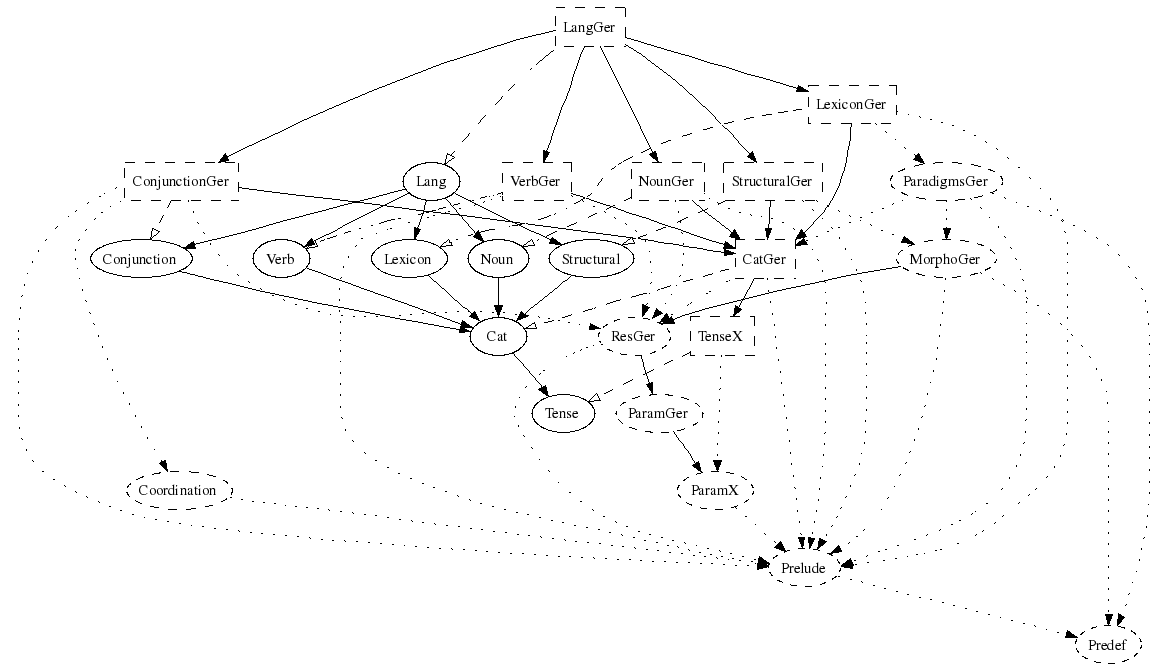
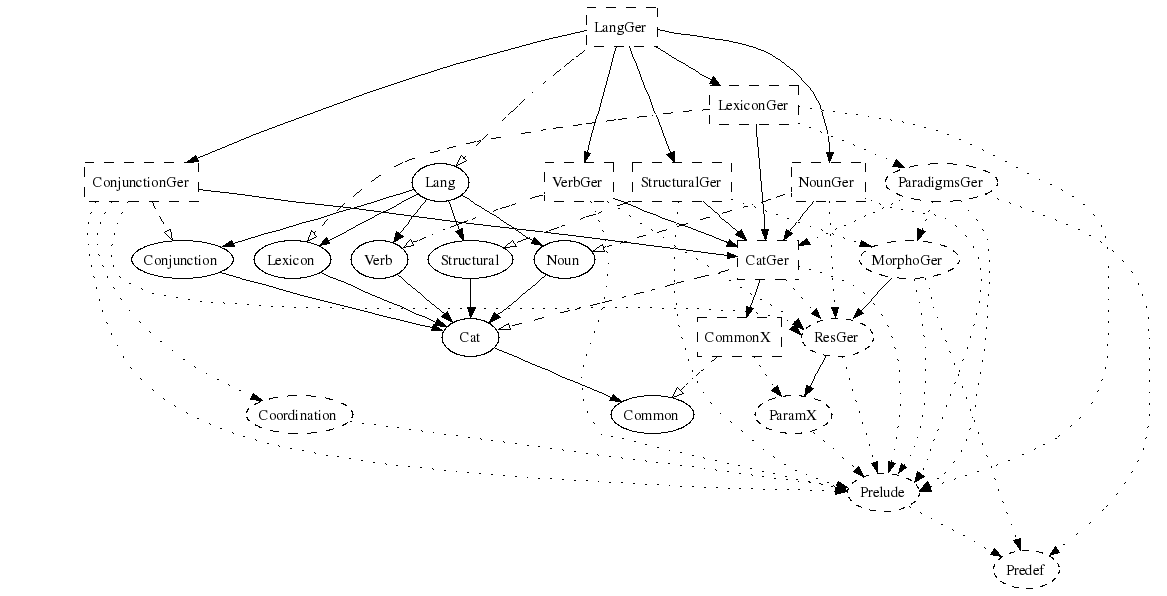
documenting new API structure
darcs-hash:20060221153514-88a34-979c1122436b2c99cd06cd9a57b3b0ab0ac1b889.gz

diff --git a/lib/resource-1.0/doc/Resource-HOWTO.html b/lib/resource-1.0/doc/Resource-HOWTO.html
@@ -7,7 +7,7 @@
 <P ALIGN="center"><CENTER><H1>Resource grammar writing HOWTO</H1>
 <FONT SIZE="4">
 <I>Author: Aarne Ranta &lt;aarne (at) cs.chalmers.se&gt;</I><BR>
-Last update: Tue Feb  7 09:22:12 2006
+Last update: Tue Feb 21 16:34:52 2006
 </FONT></CENTER>
 
 <P></P>
@@ -101,6 +101,8 @@ one of a small number of different types). Thus we have
 <LI><CODE>Relative</CODE>: construction of relative clauses
 <LI><CODE>Conjunction</CODE>: coordination of phrases
 <LI><CODE>Phrase</CODE>: construction of the major units of text and speech
+<LI><CODE>Text</CODE>: construction of texts as sequences of phrases
+<LI><CODE>Idiom</CODE>: idiomatic phrases such as existentials
 </UL>
 
 <A NAME="toc3"></A>
@@ -346,8 +348,8 @@ package.
 </P>
 <UL>
 <LI><CODE>ParamX</CODE>: parameter types used in many languages
-<LI><CODE>TenseX</CODE>: implementation of the logical tense, anteriority, 
-     and polarity parameters
+<LI><CODE>CommonX</CODE>: implementation of the categories $Text$ and $Phr$, as well as of
+     the logical tense, anteriority, and polarity parameters
 <LI><CODE>Coordination</CODE>: operations to deal with lists and coordination
 <LI><CODE>Prelude</CODE>: general-purpose operations on strings, records,
       truth values, etc.
@@ -566,13 +568,13 @@ are only found in the comments of the modules.
 <A NAME="toc15"></A>
 <H3>The category system</H3>
 <UL>
+<LI><A HREF="gfdoc/Common.html">Common</A>, <A HREF="../common/CommonX.gf">CommonX</A>
 <LI><A HREF="gfdoc/Cat.html">Cat</A>, <A HREF="gfdoc/CatGer.gf">CatGer</A>
 </UL>
 
 <A NAME="toc16"></A>
 <H3>Phrase category modules</H3>
 <UL>
-<LI><A HREF="gfdoc/Tense.html">Tense</A>, <A HREF="../german/TenseGer.gf">TenseGer</A>
 <LI><A HREF="gfdoc/Noun.html">Noun</A>, <A HREF="../german/NounGer.gf">NounGer</A>
 <LI><A HREF="gfdoc/Adjective.html">Adjective</A>, <A HREF="../german/AdjectiveGer.gf">AdjectiveGer</A>
 <LI><A HREF="gfdoc/Verb.html">Verb</A>, <A HREF="../german/VerbGer.gf">VerbGer</A>
@@ -583,6 +585,8 @@ are only found in the comments of the modules.
 <LI><A HREF="gfdoc/Relative.html">Relative</A>, <A HREF="../german/RelativeGer.gf">RelativeGer</A>
 <LI><A HREF="gfdoc/Conjunction.html">Conjunction</A>, <A HREF="../german/ConjunctionGer.gf">ConjunctionGer</A>
 <LI><A HREF="gfdoc/Phrase.html">Phrase</A>, <A HREF="../german/PhraseGer.gf">PhraseGer</A>
+<LI><A HREF="gfdoc/Text.html">Text</A>, <A HREF="../common/TextX.gf">TextX</A>
+<LI><A HREF="gfdoc/Idiom.html">Idiom</A>, <A HREF="../german/IdiomGer.gf">IdiomGer</A>
 <LI><A HREF="gfdoc/Lang.html">Lang</A>, <A HREF="../german/LangGer.gf">LangGer</A>
 </UL>
 

diff --git a/lib/resource-1.0/doc/gfdoc/Common.html b/lib/resource-1.0/doc/gfdoc/Common.html
@@ -2,19 +2,19 @@
 <HTML>
 <HEAD>
 <META NAME="generator" CONTENT="http://txt2tags.sf.net">
-<TITLE> Tense, Polarity, and Anteriority</TITLE>
+<TITLE> Infrastructure with common implementations.</TITLE>
 </HEAD><BODY BGCOLOR="white" TEXT="black">
-<P ALIGN="center"><CENTER><H1> Tense, Polarity, and Anteriority</H1>
+<P ALIGN="center"><CENTER><H1> Infrastructure with common implementations.</H1>
 <FONT SIZE="4">
 <I>Author: </I><BR>
-Last update: Tue Feb 21 16:23:54 2006
+Last update: Tue Feb 21 16:23:52 2006
 </FONT></CENTER>
 
 <P></P>
 <HR NOSHADE SIZE=1>
 <P></P>
   <UL>
-  <LI><A HREF="#toc1">Tense, Polarity, and Anteriority</A>
+  <LI><A HREF="#toc1">Infrastructure with common implementations.</A>
   </UL>
 
 <P></P>
@@ -26,19 +26,22 @@ gfdoc - a rudimentary GF document generator.
 (c) Aarne Ranta (<A HREF="mailto:aarne@cs.chalmers.se">aarne@cs.chalmers.se</A>) 2002 under GNU GPL.
 </P>
 <A NAME="toc1"></A>
-<H1>Tense, Polarity, and Anteriority</H1>
+<H1>Infrastructure with common implementations.</H1>
 <P>
 This module defines the abstract parameters of tense, polarity, and
-anteriority, which are used in <A HREF="Tensed.html">Tensed</A> to generate different
+anteriority, which are used in <A HREF="Phrase.html">Phrase</A> to generate different
 forms of sentences. Together they give 2 x 4 x 4 = 16 sentence forms.
 These tenses are defined for all languages in the library. More tenses
 can be defined in the language extensions, e.g. the <I>passé simple</I> of
 Romance languages.
 </P>
 <PRE>
-    abstract Tense = {
+    abstract Common = {
     
       cat
+        Text ;   -- text consisting of several phrases
+        Phr ;    -- phrase in a text                    e.g. "But be quiet my darling."
+    
         Pol ;
         Tense ;
         Ant ;
@@ -53,5 +56,5 @@ Romance languages.
 <P></P>
 
 <!-- html code generated by txt2tags 2.0 (http://txt2tags.sf.net) -->
-<!-- cmdline: txt2tags -thtml -\-toc abstract/Tense.txt -->
+<!-- cmdline: txt2tags -thtml -\-toc abstract/Common.txt -->
 </BODY></HTML>

diff --git a/lib/resource-1.0/doc/index.html b/lib/resource-1.0/doc/index.html
@@ -7,7 +7,7 @@
 <P ALIGN="center"><CENTER><H1>GF Resource Grammar Library v. 1.0</H1>
 <FONT SIZE="4">
 <I>Author: Aarne Ranta &lt;aarne (at) cs.chalmers.se&gt;</I><BR>
-Last update: Tue Feb  7 19:05:12 2006
+Last update: Tue Feb 21 16:23:46 2006
 </FONT></CENTER>
 
 <P></P>
@@ -47,8 +47,8 @@ The following figure gives the dependencies of these modules.
 The documentation of the individual modules:
 </P>
 <UL>
+<LI><A HREF="gfdoc/Common.html">Common</A>: abstract notions with language-indep. implementations
 <LI><A HREF="gfdoc/Cat.html">Cat</A>: the category system
-<LI><A HREF="gfdoc/Tense.html">Tense</A>: tense, anteriority, and polarity values
 <LI><A HREF="gfdoc/Noun.html">Noun</A>: construction of nouns and noun phrases
 <LI><A HREF="gfdoc/Adjective.html">Adjective</A>: construction of adjectival phrases
 <LI><A HREF="gfdoc/Verb.html">Verb</A>: construction of verb phrases
@@ -59,6 +59,8 @@ The documentation of the individual modules:
 <LI><A HREF="gfdoc/Relative.html">Relative</A>: construction of relative clauses
 <LI><A HREF="gfdoc/Conjunction.html">Conjunction</A>: coordination of phrases
 <LI><A HREF="gfdoc/Phrase.html">Phrase</A>: construction of the major units of text and speech
+<LI><A HREF="gfdoc/Text.html">Text</A>: construction of texts from phrases, using punctuation
+<LI><A HREF="gfdoc/Idiom.html">Idiom</A>: idiomatic phrases, such as existentials
 <LI><A HREF="gfdoc/Structural.html">Structural</A>: a lexicon of structural words
 <LI><A HREF="gfdoc/Lexicon.html">Lexicon</A>: a lexicon of other common words, for test purposes
 <LI><A HREF="gfdoc/Lang.html">Lang</A>: the main module comprising all the others

diff --git a/lib/resource-1.0/doc/gfdoc/Cat.html b/lib/resource-1.0/doc/gfdoc/Cat.html
@@ -7,7 +7,7 @@
 <P ALIGN="center"><CENTER><H1> The category system</H1>
 <FONT SIZE="4">
 <I>Author: </I><BR>
-Last update: Tue Feb  7 19:04:49 2006
+Last update: Tue Feb 21 16:23:52 2006
 </FONT></CENTER>
 
 <P></P>
@@ -40,8 +40,11 @@ gfdoc - a rudimentary GF document generator.
 </P>
 <A NAME="toc1"></A>
 <H1>The category system</H1>
+<P>
+Some categories are inherited from <A HREF="Common.html">Common</A>.
+</P>
 <PRE>
-    abstract Cat = Tense ** {
+    abstract Cat = Common ** {
     
       cat
 </PRE>
@@ -49,11 +52,10 @@ gfdoc - a rudimentary GF document generator.
 <A NAME="toc2"></A>
 <H2>Top-level units</H2>
 <P>
-Constructed in <A HREF="Phrase.html">Phrase</A>.
+Constructed in <A HREF="Text.html">Text</A>: <CODE>Text</CODE>.
+Constructed in <A HREF="Phrase.html">Phrase</A>: <CODE>Phr</CODE> and
 </P>
 <PRE>
-        Text ;  -- text consisting of several phrases
-        Phr ;   -- phrase in a text                    e.g. "But be quiet my darling."
         Utt ;   -- sentence, question, word...         e.g. "be quiet"
         Voc ;   -- vocative or "please"                e.g. "my darling"
 </PRE>
@@ -61,7 +63,8 @@ Constructed in <A HREF="Phrase.html">Phrase</A>.
 <A NAME="toc3"></A>
 <H2>Sentences and clauses</H2>
 <P>
-Constructed in <A HREF="Sentence.html">Sentence</A>.
+Constructed in <A HREF="Sentence.html">Sentence</A>, and also in
+<A HREF="Idiom.html">Idiom</A>.
 </P>
 <PRE>
         S ;     -- declarative sentence                e.g. "she lived here"

diff --git a/lib/resource-1.0/doc/gfdoc/Text.html b/lib/resource-1.0/doc/gfdoc/Text.html
@@ -2,58 +2,44 @@
 <HTML>
 <HEAD>
 <META NAME="generator" CONTENT="http://txt2tags.sf.net">
+<TITLE> Texts</TITLE>
 </HEAD><BODY BGCOLOR="white" TEXT="black">
+<P ALIGN="center"><CENTER><H1> Texts</H1>
 <FONT SIZE="4">
+<I>Author: </I><BR>
+Last update: Tue Feb 21 16:23:54 2006
 </FONT></CENTER>
 
 <P></P>
 <HR NOSHADE SIZE=1>
 <P></P>
+  <UL>
+  <LI><A HREF="#toc1">Texts</A>
+  </UL>
+
 <P></P>
 <HR NOSHADE SIZE=1>
 <P></P>
-<P>
-Author: 
-Last update: Tue Feb 21 16:23:56 2006
-</P>
 <P>
 Produced by 
 gfdoc - a rudimentary GF document generator.
 (c) Aarne Ranta (<A HREF="mailto:aarne@cs.chalmers.se">aarne@cs.chalmers.se</A>) 2002 under GNU GPL.
 </P>
-<P>
-==
-</P>
+<A NAME="toc1"></A>
+<H1>Texts</H1>
 <PRE>
-    abstract Multimodal =
-      Noun,
-</PRE>
-<P></P>
-<P>
-Verb, 
-</P>
-<PRE>
-      Adjective,
-      Adverb,
-      Numeral,
-</PRE>
-<P></P>
-<P>
-Sentence, 
-Question,
-Relative,
-Conjunction,
-Phrase,
-Tensed,
-</P>
-<PRE>
-      Structural,
-      Demonstrative,
-      Lexicon
-      ** {} ;
+    abstract Text = Cat ** {
+    
+      fun
+        TEmpty : Text ;
+        TFullStop : Phr -&gt; Text -&gt; Text ;
+        TQuestMark : Phr -&gt; Text -&gt; Text ;
+        TExclMark : Phr -&gt; Text -&gt; Text ;
+    
+    }
 </PRE>
 <P></P>
 
 <!-- html code generated by txt2tags 2.0 (http://txt2tags.sf.net) -->
-<!-- cmdline: txt2tags -thtml -\-toc multimodal/Multimodal.txt -->
+<!-- cmdline: txt2tags -thtml -\-toc abstract/Text.txt -->
 </BODY></HTML>

diff --git a/lib/resource-1.0/doc/gfdoc/Idiom.html b/lib/resource-1.0/doc/gfdoc/Idiom.html
@@ -1,0 +1,52 @@
+<!DOCTYPE HTML PUBLIC "-//W3C//DTD HTML 4.0 Transitional//EN">
+<HTML>
+<HEAD>
+<META NAME="generator" CONTENT="http://txt2tags.sf.net">
+<TITLE> Idiomatic expressions</TITLE>
+</HEAD><BODY BGCOLOR="white" TEXT="black">
+<P ALIGN="center"><CENTER><H1> Idiomatic expressions</H1>
+<FONT SIZE="4">
+<I>Author: </I><BR>
+Last update: Tue Feb 21 16:23:52 2006
+</FONT></CENTER>
+
+<P></P>
+<HR NOSHADE SIZE=1>
+<P></P>
+  <UL>
+  <LI><A HREF="#toc1">Idiomatic expressions</A>
+  </UL>
+
+<P></P>
+<HR NOSHADE SIZE=1>
+<P></P>
+<P>
+Produced by 
+gfdoc - a rudimentary GF document generator.
+(c) Aarne Ranta (<A HREF="mailto:aarne@cs.chalmers.se">aarne@cs.chalmers.se</A>) 2002 under GNU GPL.
+</P>
+<A NAME="toc1"></A>
+<H1>Idiomatic expressions</H1>
+<PRE>
+    abstract Idiom = Cat ** {
+</PRE>
+<P></P>
+<P>
+This module defines constructions that are formed in fixed ways,
+often different even in closely related languages.
+</P>
+<PRE>
+      fun
+        ExistNP   : NP -&gt; Cl ;    -- there is a house
+        ImpersCl  : VP -&gt; Cl ;    -- it rains
+        GenericCl : VP -&gt; Cl ;    -- one sleeps
+    
+        ProgrVP   : VP -&gt; VP ;    -- sleeping
+    
+    }
+</PRE>
+<P></P>
+
+<!-- html code generated by txt2tags 2.0 (http://txt2tags.sf.net) -->
+<!-- cmdline: txt2tags -thtml -\-toc abstract/Idiom.txt -->
+</BODY></HTML>

diff --git a/lib/resource-1.0/doc/gfdoc/Noun.html b/lib/resource-1.0/doc/gfdoc/Noun.html
@@ -7,7 +7,7 @@
 <P ALIGN="center"><CENTER><H1> The construction of nouns, noun phrases, and determiners</H1>
 <FONT SIZE="4">
 <I>Author: </I><BR>
-Last update: Tue Feb  7 19:04:50 2006
+Last update: Tue Feb 21 16:23:53 2006
 </FONT></CENTER>
 
 <P></P>
@@ -59,7 +59,7 @@ Pronouns are defined in the module <A HREF="Structural.html">Structural</A>.
 A noun phrase already formed can be modified by a Predeterminer.
 </P>
 <PRE>
-       PredetNP : Predet -&gt; NP -&gt; NP; -- only the man 
+        PredetNP : Predet -&gt; NP -&gt; NP; -- only the man 
 </PRE>
 <P></P>
 <A NAME="toc3"></A>

diff --git a/lib/resource-1.0/doc/gfdoc/ParadigmsEng.html b/lib/resource-1.0/doc/gfdoc/ParadigmsEng.html
@@ -43,7 +43,7 @@
 <P></P>
 <P>
 Author: 
-Last update: Tue Feb  7 19:04:51 2006
+Last update: Tue Feb 21 16:23:54 2006
 </P>
 <P>
 Produced by 
@@ -54,7 +54,7 @@ gfdoc - a rudimentary GF document generator.
 ==
 </P>
 <P>
-# -path=.:../abstract:../../prelude
+# -path=.:../abstract:../../prelude:../common
 </P>
 <A NAME="toc1"></A>
 <H1>English Lexical Paradigms</H1>
@@ -109,7 +109,6 @@ To abstract over gender names, we define the following identifiers.
       human     : Gender ;
       nonhuman  : Gender ;
       masculine : Gender ;
-      feminite  : Gender ;
 </PRE>
 <P></P>
 <P>

diff --git a/lib/resource-1.0/doc/gfdoc/ParadigmsFin.html b/lib/resource-1.0/doc/gfdoc/ParadigmsFin.html
@@ -28,7 +28,7 @@
 <P></P>
 <P>
 Author: 
-Last update: Tue Feb  7 19:04:51 2006
+Last update: Tue Feb 21 16:23:55 2006
 </P>
 <P>
 Produced by 
@@ -187,14 +187,6 @@ Examples: <I>talo</I>, <I>kukko</I>, <I>huippu</I>, <I>koira</I>, <I>kukka</I>, 
 </P>
 <PRE>
       nKukko : (kukko,kukon,kukkoja : Str) -&gt; N ;
-</PRE>
-<P></P>
-<P>
-For convenience, we define 1-argument paradigms as producing the
-nonhuman gender; the following function changes this:
-</P>
-<PRE>
-      humanN : N -&gt; N ;
 </PRE>
 <P></P>
 <P>
